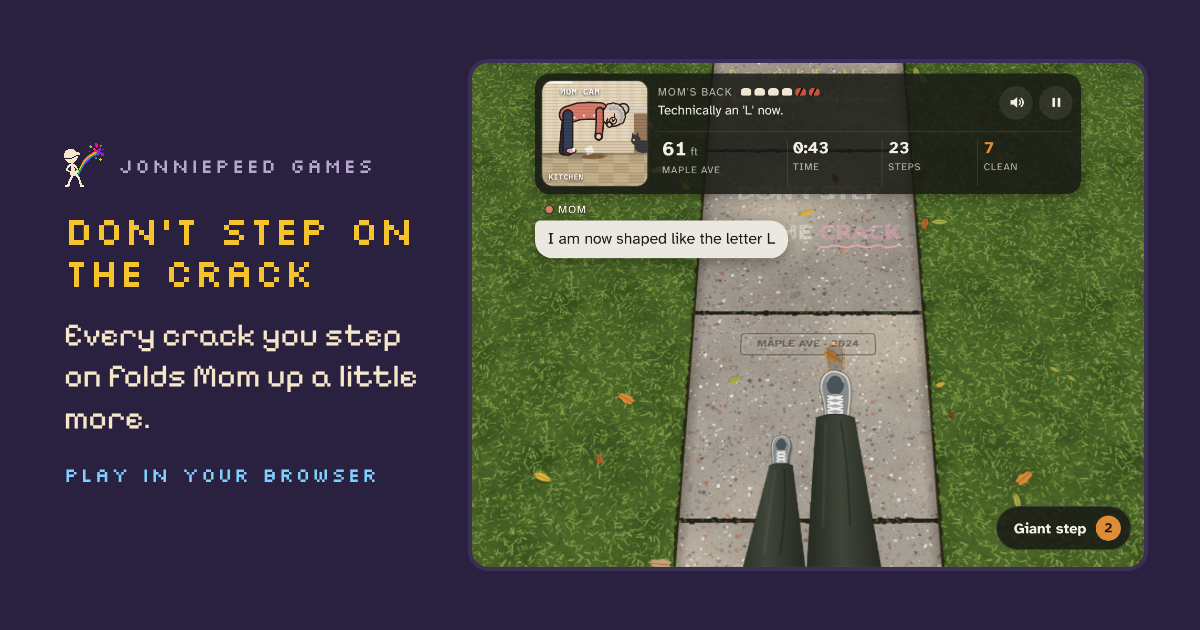
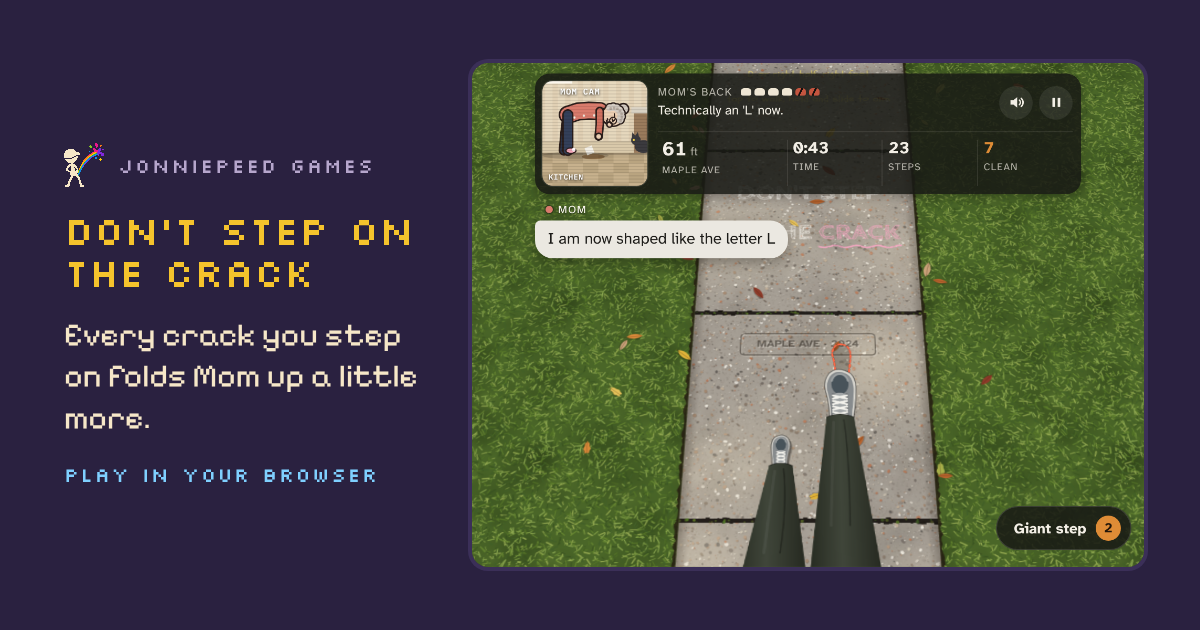
Crack: neighborhood sounds, no streaks from stepping in place, steadier legs
Each street has its own soundscape: kids, a dove and an ice cream
truck on Maple Ave, traffic and horns further on, crows and a
jackhammer by Quarry Ln. Only steps that go somewhere new count toward
the clean streak (and keep the chihuahua away). Taps keep a normal
stance and drift back to the middle; feet keep more room side to side,
and the lifted leg no longer covers the other foot. A coupon or Dad's
fix when Mom is already fine becomes a giant step. Aiming is a little
faster, and the how-to mentions steering.

Claude-Session: https://claude.ai/code/session_017r6t6W9FZXM4AKtKkuV23G

diff --git a/site/dont-step-on-the-crack/game.js b/site/dont-step-on-the-crack/game.js
@@ -19,11 +19,11 @@ const TAP=0.16, TAP_STRIDE=1.35, TAP_GIANT=2.7;  // let go within TAP seconds an
 const GIANT={dmax:3.6,lat:2.2}, GIANT_MAX=3, STREAK_EVERY=10;
 const STAGE_START=[0,6,14,24,34];
 const STAGES=[
-  {name:'Maple Ave',  note:'fresh pour',      stamp:'MAPLE AVE · 2024',  T:0.8},
-  {name:'Linden St',  note:'hairline cracks', stamp:'LINDEN ST · 1998',  T:0.7},
-  {name:'Oak St',     note:'root heave',      stamp:'OAK ST · 1971',     T:0.6},
-  {name:'Old Mill Rd',note:'old flagstone',   stamp:'OLD MILL RD · 1923',T:0.52},
-  {name:'Quarry Ln',  note:'condemned',       stamp:'QUARRY LN · 1938',  T:0.46}
+  {name:'Maple Ave',  note:'fresh pour',      stamp:'MAPLE AVE · 2024',  T:0.72},
+  {name:'Linden St',  note:'hairline cracks', stamp:'LINDEN ST · 1998',  T:0.63},
+  {name:'Oak St',     note:'root heave',      stamp:'OAK ST · 1971',     T:0.54},
+  {name:'Old Mill Rd',note:'old flagstone',   stamp:'OLD MILL RD · 1923',T:0.47},
+  {name:'Quarry Ln',  note:'condemned',       stamp:'QUARRY LN · 1938',  T:0.42}
 ];
 const MOMTXT=['',
   'Is technically flooring now.',
@@ -45,7 +45,7 @@ function mulberry32(a){return function(){a|=0;a=a+0x6D2B79F5|0;let t=Math.imul(a
 const clamp=(v,a,b)=>v<a?a:v>b?b:v;
 const slabIdx=d=>Math.floor(d/S);
 function stageOf(i){let s=0;for(let j=1;j<5;j++) if(i>=STAGE_START[j]) s=j;return s;}
-function swingTime(i){const s=stageOf(i);return s<4?STAGES[s].T:Math.max(0.36,0.46-(i-STAGE_START[4])*0.003);}
+function swingTime(i){const s=stageOf(i);return s<4?STAGES[s].T:Math.max(0.33,0.42-(i-STAGE_START[4])*0.003);}
 
 /* ---------- geometry ---------- */
 function psd(px,py,ax,ay,bx,by){const dx=bx-ax,dy=by-ay,l=dx*dx+dy*dy;let t=l?((px-ax)*dx+(py-ay)*dy)/l:0;t=t<0?0:t>1?1:t;const qx=ax+t*dx-px,qy=ay+t*dy-py;return Math.sqrt(qx*qx+qy*qy);}
@@ -432,7 +432,7 @@ function drawChalk(g,c,sl,d0,tx,ty){
   }
   if(sl.chalk==='howto'){
     let fs=0.46*K; const font=f=>`${f}px "Schoolbell", cursive`;
-    const lines=coarse?['left side: left foot','right side: right foot','tap to walk, hold to aim']:['A or left half: left foot','D or right half: right foot','tap to walk, hold to aim'];
+    const lines=coarse?['left side: left foot','right side: right foot','tap to walk, hold and slide to aim']:['A or left half: left foot','D or right half: right foot','tap to walk, hold and slide to aim'];
     h.font=font(fs); const w=Math.max(...lines.map(s=>h.measureText(s).width)); fs*=Math.min(1,4.2*K/w); h.font=font(fs);
     h.textAlign='center'; h.fillStyle='#f4e27a';
     lines.forEach((s,j)=>h.fillText(s,tx(2.5),ty(d0+3.75-j*0.95)));
@@ -469,8 +469,8 @@ function drawShoe(px,py,sc,side,shadowA){
   ctx.stroke();
   ctx.restore(); ctx.restore();
 }
-function drawLeg(sx,sy,sc,hx,hy){
-  const hw=0.235*K*sc, hemY=sy+0.17*K*sc, hipW=0.85*K;
+function drawLeg(sx,sy,sc,hx,hy,shoeSc=sc){
+  const hw=0.235*K*sc, hemY=sy+0.17*K*shoeSc, hipW=0.85*K;
   const gr=ctx.createLinearGradient(Math.min(sx-hw,hx-hipW),0,Math.max(sx+hw,hx+hipW),0);
   gr.addColorStop(0,'#22261d'); gr.addColorStop(0.45,'#40463a'); gr.addColorStop(1,'#20231b');
   const hem=()=>{ctx.moveTo(sx-hw,hemY+0.03*K); ctx.quadraticCurveTo(sx,hemY-0.09*K*sc,sx+hw,hemY+0.03*K);};
@@ -513,9 +513,10 @@ function drawFeet(){
       x=drop.fx+(drop.x-drop.fx)*s; d=drop.fd+(drop.d-drop.fd)*s; lift=Math.max(drop.fl*(1-e),Math.sin(Math.PI*e)*(drop.giant?0.9:0.6));
     }
     else {const e=Math.min(1,drop.t/drop.dur), ee=e*e; x=drop.fx+(drop.x-drop.fx)*ee; d=drop.fd+(drop.d-drop.fd)*ee; lift=drop.fl*(1-ee);}
+    // the shoe swells as it comes up toward you; the trouser leg much less, so it doesn't swallow the other foot
     const sc=1+0.7*lift, yy=Y(d-LIFT*lift);
     drawShoe(X(x),yy,sc,air.side,1-lift);
-    drawLeg(X(x),yy,sc,hipX(air),hy);
+    drawLeg(X(x),yy,1+0.2*lift,hipX(air),hy,sc);
   }
 }
 
@@ -873,9 +874,15 @@ function dadUpdate(dt){
       hp++; kinks.pop(); updateHUD(); sfx.backpop();
       say("Dad walked on Mom's back.",'Something popped back in.',1600);
       momText(T.healed);
-    }
+    } else if(mode==='play'&&hp===MAXHP) bankGiant("Dad walked on Mom's back.");
   }
   if(dadA.t>=2.75){dadA.on=false; camLabel();}
+}
+// a fix Mom doesn't need becomes a giant step
+function bankGiant(title){
+  if(giant<GIANT_MAX){giant++; say(title,"She was already fine. Giant step instead.",1600); sfx.earn();}
+  else say(title,"She's fine and your giant steps are full.",1400);
+  updateHUD();
 }
 
 /* ---------- the family group chat ---------- */
@@ -894,6 +901,7 @@ const T={
   healed:["your father walked on me. something went back in","ok that helped. tell him to wipe his feet","one notch less folded. thank your father","he does this every christmas"],
   giant:["was that a giant step. my knees heard it","I said yes but I didn't mean it like THAT","show off"],
   coupon:["is that a chiropractor coupon. bring it home. don't fold it","ooh. coupon. tape it to my back","unfolding one notch. thank you"],
+  couponFine:["a coupon? I'm fine. use it on your legs","save it. you'll need it on quarry ln"],
   snap:["don't stretch like that. that's how this started for me","you looked just like me for a second","hamstrings aren't free sweetie"],
   dog:["is that the kowalski dog","tell that dog I said no","RUN. I'm serious","that dog has never liked our family"],
   stage:{1:["linden st. your grandmother cracked her hip there in 1998"],2:["oak st?? the ROOTS. I'm bracing"],3:["old mill rd is all flagstone. so many lines. so many spines"],4:["quarry ln. I'm updating my will. you get the heating pad"]},
@@ -953,7 +961,7 @@ function dogUpdate(dt,now){
   dog.yaps=dog.yaps.filter(y=>now-y.t<0.7);
   if(dog.state==='off'){
     if(phase==='idle'&&now-lastStepAt>dawdleLimit()){
-      dog.on=true; dog.state='chase'; dog.side=Math.random()<0.5?-1:1; dog.d=heelD()-3.8; dog.x=bodyX+dog.side*1.2; dog.since=steps; dog.yapAt=0;
+      dog.on=true; dog.state='chase'; dog.side=Math.random()<0.5?-1:1; dog.d=heelD()-3.8; dog.x=bodyX+dog.side*1.2; dog.since=fwdSteps; dog.yapAt=0;
     }
     return;
   }
@@ -965,7 +973,7 @@ function dogUpdate(dt,now){
       dog.yapAt=now+0.22+Math.max(0,dog.gap)*0.3; sfx.yap(dog.side*0.4);
       dog.yaps.push({t:now,x:dog.x+(Math.random()-0.5)*0.5,d:dog.d+0.35});
     }
-    if(steps-dog.since>=2){dog.state='leave'; dog.leaveT=0;}
+    if(fwdSteps-dog.since>=2){dog.state='leave'; dog.leaveT=0;}
     else if(dog.gap<=0&&(phase==='idle'||phase==='swing')){nip(now); dog.state='leave'; dog.leaveT=0;}
   } else {
     dog.leaveT+=dt; dog.x+=dog.side*3.4*dt; dog.d-=0.5*dt; dog.gap=9;
@@ -1033,6 +1041,7 @@ let falling=[], squirrel=null, cloud=null, nextLeaf=0, nextSquirrel=0, nextCloud
 function ambientReset(now){
   falling=[]; squirrel=null; cloud=null;
   nextLeaf=now+1.5; nextSquirrel=now+10+Math.random()*10; nextCloud=now+18+Math.random()*25; nextMower=now+25+Math.random()*40;
+  soundscapeReset(now);
 }
 function ambientUpdate(dt,now){
   const st=stageOf(slabIdx(front.d));
@@ -1075,6 +1084,34 @@ function ambientUpdate(dt,now){
   if(cloud){cloud.x+=cloud.v*dt; if(cloud.x>1.7) cloud=null;}
   // somebody is mowing a lawn a few houses over (the quieter streets only)
   if(now>nextMower){nextMower=now+70+Math.random()*60; if(st<=2) sfx.mower();}
+  soundscape(now,st);
+}
+// What you can hear changes street by street: kids and doves on Maple Ave, traffic and horns
+// further on, crows and a jackhammer by Quarry Ln. Seconds between each: [least, plus up to]. null: never here.
+const SCAPE=[
+  {kids:[7,9],   car:[16,16], horn:null,    dove:[25,25], truck:[40,40], crow:null,    hammer:null},
+  {kids:[10,12], car:[11,12], horn:[35,30], dove:[30,30], truck:[70,50], crow:null,    hammer:null},
+  {kids:[18,18], car:[8,9],   horn:[20,20], dove:null,    truck:null,    crow:[28,28], hammer:null},
+  {kids:null,    car:[7,8],   horn:[15,15], dove:null,    truck:null,    crow:[18,18], hammer:[28,22]},
+  {kids:null,    car:[9,10],  horn:[13,13], dove:null,    truck:null,    crow:[12,12], hammer:[16,16]}];
+let nextSnd={};
+function soundscapeReset(now){nextSnd={kids:now+4,car:now+7,horn:now+14,dove:now+12,truck:now+30+Math.random()*25,crow:now+9,hammer:now+10};}
+function soundscape(now,st){
+  if(!sfx.c||mode==='over') return;
+  const sc=SCAPE[st], side=()=>Math.random()<0.5?-1:1;
+  for(const k in nextSnd){
+    if(now<nextSnd[k]) continue;
+    const r=sc[k]; nextSnd[k]=now+(r?r[0]+Math.random()*r[1]:6);
+    if(!r) continue;
+    const pan=side()*(0.35+Math.random()*0.5);
+    if(k==='kids') sfx.kids(pan);
+    else if(k==='car') sfx.carBy(side(),Math.min(1,0.25+st*0.2));
+    else if(k==='horn') sfx.horn(pan);
+    else if(k==='dove') sfx.dove(pan);
+    else if(k==='truck') sfx.truck(side());
+    else if(k==='crow') sfx.crow(pan);
+    else if(k==='hammer') sfx.hammer(pan);
+  }
 }
 function drawFallen(lo,hi){
   for(let i=lo;i<=hi;i++){const sl=slabs.get(i); if(sl&&sl.fallen) for(const L of sl.fallen) drawLeaf(ctx,X(L.x),Y(L.d),L.s*K,L.a,L.c,L.t);}
@@ -1248,6 +1285,7 @@ function syncGiant(){gcountEl.textContent=giant; giantBtn.setAttribute('aria-pre
 // mode: title (a demo walk runs behind the title) | play | paused | over
 // phase: what the feet are doing: idle | swing | drop | over
 let mode='title';
+let far=0, fwdSteps=0;
 let phase='idle', feet=[], front=null, back=null, sw=null, drop=null, hp=MAXHP, steps=0, camD=0, bodyX=2.5, lastStage=0, hitFx=[], puffs=[], shake=0;
 let streak=0, runStreak=0, giant=1, armed=false, tStart=null, tEnd=null, lastTs='', runResult=null;
 let best=0, bestStreak=0, bestAtStart=0, bestStreakAtStart=0, newBestShown=false;
@@ -1287,7 +1325,7 @@ function reset(){
   slabs.set(-2,buildSlab(-2,seedBase+11,0)); slabs.set(-1,buildSlab(-1,seedBase+13,0));
   frontier=[{x:front.x,d:front.d},{x:back.x,d:back.d}]; genNext=0; ensureSlabs(4);
   stopWobble();
-  phase='idle'; sw=null; drop=null; hp=MAXHP; steps=0; camD=front.d; bodyX=2.5; lastStage=0; hitFx=[]; puffs=[]; shake=0;
+  phase='idle'; sw=null; drop=null; hp=MAXHP; steps=0; far=front.d; fwdSteps=0; camD=front.d; bodyX=2.5; lastStage=0; hitFx=[]; puffs=[]; shake=0;
   streak=0; runStreak=0; giant=2; armed=false; tStart=null; tEnd=null; lastTs=''; timeEl.textContent='0:00';
   bestAtStart=best; bestStreakAtStart=bestStreak; newBestShown=false;
   clearInput();
@@ -1315,7 +1353,7 @@ giantBtn.addEventListener('click',e=>{if(!e.detail) toggleGiant();});
 // The lifted foot is measured from the one still planted (sw.other).
 // Feet keep to their own side: they never cross, and side by side they keep a gap.
 function sideClamp(x,ahead){
-  const o=sw.other, gap=Math.abs(ahead)<1.06?0.5:0.18;
+  const o=sw.other, gap=Math.abs(ahead)<1.06?0.6:0.45;
   x=sw.foot.side<0?Math.min(x,o.x-gap):Math.max(x,o.x+gap);
   return clamp(x,R+0.05,WS-R-0.05);
 }
@@ -1343,12 +1381,15 @@ function upgradeSwing(){
   armed=false; syncGiant();
   sayNow('Giant step!',was?'Saved yourself.':'Mother, may I? Yes.',1000); sfx.arm();
 }
-// the tap: a normal stride ahead of the other foot, keeping roughly to its own lane
+// the tap: a normal stride ahead of the other foot at a normal stance width,
+// drifting back toward the middle of the sidewalk so a run of taps walks straight
 function tapStep(){
   stopWobble();
   const f=sw.foot, o=sw.other, side=f.side;
   const ahead=Math.min(sw.dmax-0.1,Math.max(sw.ahead,sw.giant?TAP_GIANT:TAP_STRIDE));
-  let x=side<0?clamp(sw.ex,o.x-1.3,o.x-0.6):clamp(sw.ex,o.x+0.6,o.x+1.3);
+  let x=o.x+side*0.95;
+  x+=(WS/2-(x+o.x)/2)*0.3;
+  x=side<0?clamp(x,o.x-1.35,o.x-0.6):clamp(x,o.x+0.6,o.x+1.35);
   x=clamp(x,R+0.05,WS-R-0.05);
   const d=o.d+ahead, dist=Math.hypot(x-sw.dx,d-sw.dd);
   drop={foot:f,x,d,t:0,dur:0.09+dist*0.022,fx:sw.dx,fd:sw.dd,fl:sw.lift,giant:sw.giant,tap:true};
@@ -1380,6 +1421,8 @@ function land(now){
   puffs.push({x:f.x,d:f.d,t:now,r:Math.random()*6,s:drop.giant?2:1});
   if(mode!=='play') return;                       // the title screen's demo walk counts nothing
   steps++;
+  // only a step that takes you somewhere new counts toward the clean streak
+  const fwd=f.d>far+0.3; if(f.d>far) far=f.d;
   const ay=f.d-0.5+R, by=f.d+0.5-R;
   const near=slabsNear(f.d), hits=footHits(f.x,f.d,near);
   let got=false, leafy=false, gum=false;
@@ -1410,18 +1453,25 @@ function land(now){
       else sfx.step();
     } else momText(T.giant,{chance:0.6});
     if(footHits(f.x,f.d,near,0.1).length){camFlinch=Math.max(camFlinch,0.55); momText(T.near,{chance:0.35});}
-    streak++; if(streak>runStreak) runStreak=streak;
-    if(streak%STREAK_EVERY===0){
-      // clean streaks fix Mom: Dad walks on her back. If she's already fine, you get a giant step
-      pop(streakEl); sfx.earn();
-      if(hp<MAXHP&&!dadA.on){startDad(); say(`${streak} clean.`,'Dad is on his way.',1300);}
-      else if(giant<GIANT_MAX){giant++; say('Giant step earned.',`${streak} clean in a row.`,1500); momText(T.streak,{chance:0.5});}
-      else say(`${streak} clean.`,'Giant steps full.',1200);
-    } else if(streak%5===0){pop(streakEl); sfx.chime(streak/5);}
+    // shuffling in place is safe, but only steps forward count toward Dad
+    if(fwd){
+      streak++; if(streak>runStreak) runStreak=streak;
+      if(streak%STREAK_EVERY===0){
+        // clean streaks fix Mom: Dad walks on her back. If she's already fine, you get a giant step
+        pop(streakEl); sfx.earn();
+        if(hp<MAXHP&&!dadA.on){startDad(); say(`${streak} clean.`,'Dad is on his way.',1300);}
+        else if(giant<GIANT_MAX){giant++; say('Giant step earned.',`${streak} clean in a row.`,1500); momText(T.streak,{chance:0.5});}
+        else say(`${streak} clean.`,'Giant steps full.',1200);
+      } else if(streak%5===0){pop(streakEl); sfx.chime(streak/5);}
+    }
   }
-  if(got&&hp>0){momText(T.coupon); if(hp<MAXHP){hp++; kinks.pop(); say('Chiropractor coupon.','Mom unfolds a notch.',1500);} else say('Chiropractor coupon.',"Mom's fine. You keep it.",1300); sfx.paper();}
+  if(got&&hp>0){
+    sfx.paper();
+    if(hp<MAXHP){hp++; kinks.pop(); say('Chiropractor coupon.','Mom unfolds a notch.',1500); momText(T.coupon);}
+    else {bankGiant('Chiropractor coupon.'); momText(T.couponFine);}
+  }
   updateHUD();
-  lastStepAt=now; idleTexted=false;
+  if(fwd){lastStepAt=now; idleTexted=false; fwdSteps++;}   // and to the chihuahua, shuffling is dawdling
   if(hp<=0){gameOver(now); return;}
   const st=stageOf(slabIdx(front.d));
   if(st>lastStage){lastStage=st; say(STAGES[st].name,STAGES[st].note,2000,true); sfx.car(); sfx.wind(st); momText(T.stage[st]);}

diff --git a/site/dont-step-on-the-crack/audio.js b/site/dont-step-on-the-crack/audio.js
@@ -166,6 +166,103 @@ const CrackSound = {
     o.connect(f); n.connect(nf); nf.connect(ng); ng.connect(f); f.connect(g); g.connect(this.out(pan));
     o.start(t); wob.start(t); n.start(t); o.stop(t + dur); wob.stop(t + dur); n.stop(t + dur);
   },
+
+  // ---- the neighborhood you hear but never see (plays on the title screen too)
+  // a held note with a flat top, for horns
+  hold(f, dur, peak, type, when, pan, lp) {
+    if (!this.c || !this.on) return;
+    const c = this.c, t = c.currentTime + when, o = c.createOscillator(), g = c.createGain(), fl = c.createBiquadFilter();
+    o.type = type; o.frequency.value = f; fl.type = 'lowpass'; fl.frequency.value = lp;
+    g.gain.setValueAtTime(0, t); g.gain.linearRampToValueAtTime(peak, t + 0.025); g.gain.setValueAtTime(peak, t + dur - 0.04); g.gain.linearRampToValueAtTime(0, t + dur);
+    o.connect(fl); fl.connect(g); g.connect(this.out(pan)); o.start(t); o.stop(t + dur + 0.05);
+  },
+  // something voice-like: a buzzy tone through two vowel formants, muffled by distance
+  voice(f0, f1, dur, peak, vowel, when, pan, fs = 1.18) {
+    if (!this.c || !this.on) return;
+    const c = this.c, t = c.currentTime + when, o = c.createOscillator(), g = c.createGain(), lp = c.createBiquadFilter();
+    const F = { a: [850, 1600], e: [480, 2300], o: [520, 950], u: [380, 850] }[vowel];
+    o.type = 'sawtooth'; o.frequency.setValueAtTime(f0, t); o.frequency.exponentialRampToValueAtTime(f1, t + dur);
+    for (const [fq, k] of [[F[0], 1], [F[1], 0.55]]) {
+      const b = c.createBiquadFilter(), bg = c.createGain(); b.type = 'bandpass'; b.frequency.value = fq * fs; b.Q.value = 5; bg.gain.value = k;
+      o.connect(b); b.connect(bg); bg.connect(g);
+    }
+    lp.type = 'lowpass'; lp.frequency.value = 2600;
+    g.gain.setValueAtTime(0.0001, t); g.gain.exponentialRampToValueAtTime(peak, t + Math.min(0.05, dur * 0.3)); g.gain.exponentialRampToValueAtTime(0.0001, t + dur);
+    g.connect(lp); lp.connect(this.out(pan)); o.start(t); o.stop(t + dur + 0.05);
+  },
+  // kids playing a few yards over: whoops, a laugh, a squeal, sometimes a ball
+  kids(pan) {
+    const n = 3 + (Math.random() * 4 | 0), P = d => Math.max(-0.9, Math.min(0.9, pan + d));
+    for (let i = 0; i < n; i++) {
+      const w = Math.random() * 1.8, p = P((Math.random() - 0.5) * 0.4), f = 300 + Math.random() * 250, r = Math.random();
+      if (r < 0.4) this.voice(f, f * (1.3 + Math.random() * 0.4), 0.22 + Math.random() * 0.25, 0.09, 'u', w, p);
+      else if (r < 0.7) this.voice(f * 1.25, f * 0.85, 0.3 + Math.random() * 0.3, 0.08, 'a', w, p);
+      else if (r < 0.88) for (let k = 0; k < 4; k++) this.voice(f * (1.15 - k * 0.05), f * (1.05 - k * 0.05), 0.08, 0.07, 'a', w + k * 0.12, p);
+      else this.voice(f * 2.1, f * 2.7, 0.2, 0.05, 'e', w, p);
+    }
+    if (Math.random() < 0.35) { let w = 0.4, gap = 0.42; for (let k = 0; k < 5; k++) { this.tone(150, 85, 0.07, 0.07 * (1 - k * 0.16), 'sine', w, { pan, always: true }); w += gap; gap *= 0.7; } }
+  },
+  // a car going by on the cross street; loud is 0..1
+  carBy(dir, loud) {
+    if (!this.c || !this.on) return;
+    const c = this.c, t = c.currentTime, dur = 2.6 + Math.random() * 1.6, mid = t + dur * 0.5, f0 = 55 + Math.random() * 30;
+    const o = c.createOscillator(); o.type = 'sawtooth';
+    o.frequency.setValueAtTime(f0 * 1.06, t); o.frequency.setValueAtTime(f0 * 1.06, mid - 0.2); o.frequency.exponentialRampToValueAtTime(f0 * 0.93, mid + 0.3);
+    const of = c.createBiquadFilter(); of.type = 'lowpass'; of.frequency.value = 240;
+    const n = c.createBufferSource(); n.buffer = this.nb; n.loop = true;
+    const nf = c.createBiquadFilter(); nf.type = 'bandpass'; nf.Q.value = 0.7;
+    nf.frequency.setValueAtTime(380, t); nf.frequency.exponentialRampToValueAtTime(950, mid); nf.frequency.exponentialRampToValueAtTime(330, t + dur);
+    const g = c.createGain(); g.gain.setValueAtTime(0.0001, t); g.gain.exponentialRampToValueAtTime(0.014 + 0.036 * loud, mid); g.gain.exponentialRampToValueAtTime(0.0001, t + dur);
+    o.connect(of); of.connect(g); n.connect(nf); nf.connect(g);
+    if (c.createStereoPanner) { const p = c.createStereoPanner(); p.pan.setValueAtTime(-0.85 * dir, t); p.pan.linearRampToValueAtTime(0.85 * dir, t + dur); g.connect(p); p.connect(this.master); }
+    else g.connect(this.master);
+    o.start(t); n.start(t, Math.random()); o.stop(t + dur + 0.05); n.stop(t + dur + 0.05);
+  },
+  // somebody leaning on a horn a block away: two quick honks or one long one
+  horn(pan) {
+    const f = 370 + Math.random() * 90, pat = Math.random() < 0.55 ? [[0, 0.15], [0.23, 0.17]] : [[0, 0.45 + Math.random() * 0.5]];
+    for (const [w, d] of pat) for (const k of [1, 1.25]) this.hold(f * k, d, 0.011, 'square', w, pan, 1300);
+  },
+  // the ice cream truck, wandering past with its little tune (original, not a real truck's)
+  truck(dir) {
+    if (!this.c || !this.on) return;
+    const c = this.c, t0 = c.currentTime + 0.05, beat = 0.19;
+    const mel = [76, 79, 84, 79, 81, 79, 76, 72, 74, 76, 77, 81, 79, 0, 0, 0, 76, 79, 84, 79, 81, 84, 83, 81, 79, 76, 74, 77, 76, 72, 0, 0];
+    const loops = 3, total = mel.length * beat * loops;
+    const bus = c.createGain(), spk = c.createBiquadFilter();
+    bus.gain.setValueAtTime(0.0001, t0); bus.gain.exponentialRampToValueAtTime(1, t0 + total * 0.5); bus.gain.exponentialRampToValueAtTime(0.0001, t0 + total);
+    spk.type = 'bandpass'; spk.frequency.value = 1500; spk.Q.value = 0.9;               // a small tinny speaker on the roof
+    bus.connect(spk);
+    if (c.createStereoPanner) { const p = c.createStereoPanner(); p.pan.setValueAtTime(-0.8 * dir, t0); p.pan.linearRampToValueAtTime(0.8 * dir, t0 + total); spk.connect(p); p.connect(this.master); }
+    else spk.connect(this.master);
+    const wob = c.createOscillator(), wg = c.createGain(); wob.frequency.value = 5; wg.gain.value = 14; wob.connect(wg); wob.start(t0); wob.stop(t0 + total + 0.5);
+    for (let L = 0; L < loops; L++) mel.forEach((m, i) => {
+      if (!m) return;
+      const t = t0 + (L * mel.length + i) * beat, f = 440 * Math.pow(2, (m - 69) / 12);
+      for (const [k, type, pk] of [[1, 'square', 0.03], [2, 'sine', 0.02]]) {
+        const o = c.createOscillator(), g = c.createGain(); o.type = type; o.frequency.value = f * k; wg.connect(o.detune);
+        g.gain.setValueAtTime(0.0001, t); g.gain.exponentialRampToValueAtTime(pk, t + 0.008); g.gain.exponentialRampToValueAtTime(0.0001, t + beat * 1.6);
+        o.connect(g); g.connect(bus); o.start(t); o.stop(t + beat * 1.7);
+      }
+    });
+  },
+  // a mourning dove on a wire: coo-OO-oo, oo, oo
+  dove(pan) {
+    const o = { pan, always: true, att: 0.09 };
+    this.tone(480, 520, 0.32, 0.02, 'sine', 0, o); this.tone(560, 470, 0.5, 0.026, 'sine', 0.38, o);
+    this.tone(470, 440, 0.38, 0.018, 'sine', 1.05, o); this.tone(470, 440, 0.38, 0.016, 'sine', 1.6, o);
+  },
+  // crows, for the rougher streets
+  crow(pan) {
+    const n = 2 + (Math.random() * 2 | 0);
+    for (let i = 0; i < n; i++) { const w = i * (0.4 + Math.random() * 0.12); this.voice(600, 450, 0.25, 0.1, 'a', w, pan, 1.4); this.noise(0.22, 'bandpass', 1400, 2, 0.025, w, { pan, always: true }); }
+  },
+  // a jackhammer somewhere on Quarry Ln
+  hammer(pan) {
+    const runs = 1 + (Math.random() * 2 | 0); let w = 0;
+    for (let r = 0; r < runs; r++) { const n = 14 + (Math.random() * 14 | 0); for (let i = 0; i < n; i++) this.noise(0.03, 'bandpass', 650 + Math.random() * 300, 1.2, 0.15, w + i * 0.052, { pan, always: true }); w += n * 0.052 + 0.5 + Math.random() * 0.6; }
+  },
+
   // a message landing in the family chat; each person pings at their own pitch
   ping(k = 1) { this.tone(1568 * k, 1570 * k, 0.09, 0.045, 'triangle'); this.tone(2093 * k, 2095 * k, 0.12, 0.035, 'triangle', 0.08); },
   ring() { for (const w of [0, 0.55]) { this.tone(440, 440, 0.42, 0.09, 'sine', w); this.tone(480, 480, 0.42, 0.09, 'sine', w); this.tone(115, 115, 0.42, 0.035, 'sawtooth', w); } },

diff --git a/site/dont-step-on-the-crack/index.html b/site/dont-step-on-the-crack/index.html
@@ -11,14 +11,14 @@
 <meta property="og:title" content="Don't Step on the Crack · JonniePeed Games">
 <meta property="og:description" content="Walk home without stepping on a crack. Every one you land on folds Mom up a little more, live on the Mom Cam. A game for phone or desktop.">
 <meta property="og:url" content="https://jonniesparkles.github.io/jonniepeed-games/dont-step-on-the-crack/index.html">
-<meta property="og:image" content="https://jonniesparkles.github.io/jonniepeed-games/assets/og/dont-step-on-the-crack.png?v=1c5bbe5bc0">
+<meta property="og:image" content="https://jonniesparkles.github.io/jonniepeed-games/assets/og/dont-step-on-the-crack.png?v=7f90db7ad3">
 <meta property="og:image:width" content="1200">
 <meta property="og:image:height" content="630">
 <meta property="og:image:alt" content="Looking down at your sneakers on a cracked sidewalk, with a security-camera view of Mom folded in half in her kitchen">
 <meta name="twitter:card" content="summary_large_image">
 <meta name="twitter:title" content="Don't Step on the Crack · JonniePeed Games">
 <meta name="twitter:description" content="Walk home without stepping on a crack. Every one you land on folds Mom up a little more, live on the Mom Cam. A game for phone or desktop.">
-<meta name="twitter:image" content="https://jonniesparkles.github.io/jonniepeed-games/assets/og/dont-step-on-the-crack.png?v=1c5bbe5bc0">
+<meta name="twitter:image" content="https://jonniesparkles.github.io/jonniepeed-games/assets/og/dont-step-on-the-crack.png?v=7f90db7ad3">
 <meta name="twitter:image:alt" content="Looking down at your sneakers on a cracked sidewalk, with a security-camera view of Mom folded in half in her kitchen">
 <link rel="icon" href="../favicon.ico?v=443c0101ac" sizes="any">
 <link rel="icon" type="image/png" href="../assets/favicon-32.png?v=569f3f592d">
@@ -281,7 +281,7 @@ html,body{height:100%;margin:0;overflow:hidden;background:var(--ground);color:va
           </div>
         </section>
         <ul class="t-how">
-          <li><i class="dot d1"></i><span id="howMove">Tap the <b>left and right sides</b> in turn to walk. Hold a side to lift that foot and aim it, let go to put it down.</span></li>
+          <li><i class="dot d1"></i><span id="howMove">Tap the <b>left and right sides</b> in turn to walk. Hold a side to lift that foot, slide your thumb to steer it, let go to put it down.</span></li>
           <li><i class="dot d2"></i><span>Every crack, line or pothole you land on breaks one of Mom's vertebrae. Ten clean steps in a row and <b>Dad walks on her back</b> to fix one.</span></li>
           <li><i class="dot d3"></i><span id="howGiant">Dawdle and the Kowalskis' chihuahua comes for your heels. Overreach and your leg wobbles: hit <b>Giant step</b> to save it.</span></li>
         </ul>
@@ -336,7 +336,7 @@ html,body{height:100%;margin:0;overflow:hidden;background:var(--ground);color:va
     </div>
   </div>
 </div>
-<script src="audio.js?v=054737ce75"></script>
-<script src="game.js?v=19e70addd1"></script>
+<script src="audio.js?v=71a0976523"></script>
+<script src="game.js?v=ea5389b5d8"></script>
 </body>
 </html>

diff --git a/site/index.html b/site/index.html
@@ -83,7 +83,7 @@ footer img{width:20px;height:22px;image-rendering:pixelated}
   <h2>Games</h2>
   <div class="grid">
     <a class="card pink" href="dont-step-on-the-crack/index.html">
-      <div class="thumb"><img src="assets/thumb-dont-step-on-the-crack.webp?v=0d7b6fb135" width="768" height="576" alt="Looking down at sneakers on a chalked sidewalk, with a Mom Cam showing Mom folded in half in her kitchen"></div>
+      <div class="thumb"><img src="assets/thumb-dont-step-on-the-crack.webp?v=1c51047f59" width="768" height="576" alt="Looking down at sneakers on a chalked sidewalk, with a Mom Cam showing Mom folded in half in her kitchen"></div>
       <div class="info">
         <span class="tag">Game · phone or desktop</span>
         <h3>Don't Step on the Crack</h3>
